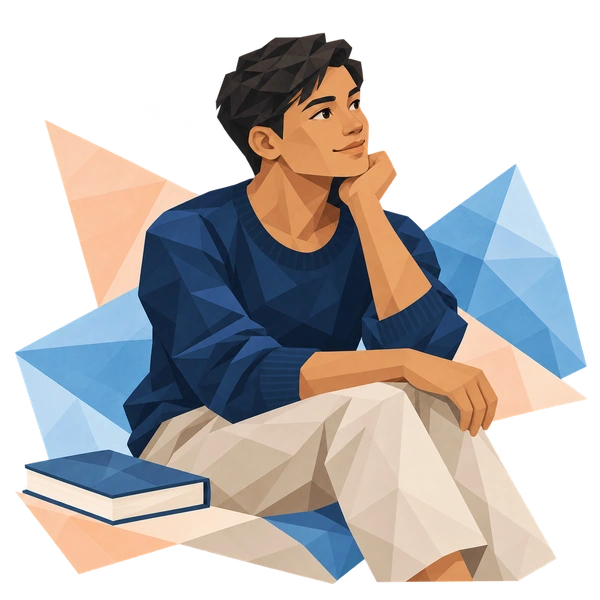
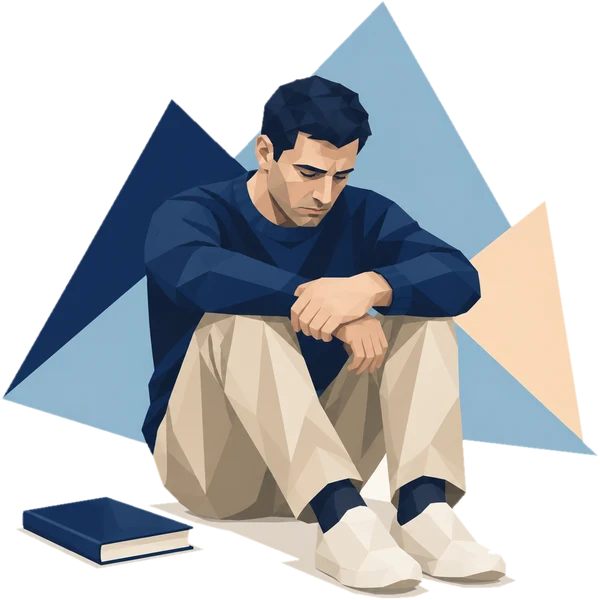
Career question cards, tidier traits chapter, new Angst pictures, X-of-100 for the standout trait (#77)
* Angst facet: new pensive pictures (woman and man) instead of smiling ones

Claude-Session: https://claude.ai/code/session_01QELGoaEXdk8jqMbp9xU79p

* Career questions as picture cards, traits chapter starts at the logo, X-of-100 figures for the standout trait

Claude-Session: https://claude.ai/code/session_01QELGoaEXdk8jqMbp9xU79p

* Nye fasettbilder for Sinne og Depresjon

Claude-Session: https://claude.ai/code/session_01QELGoaEXdk8jqMbp9xU79p

---------

diff --git a/app/ui.js b/app/ui.js
@@ -431,20 +431,22 @@ function fullReport(active='overview'){
   if(!all.some(([id])=>id===active))active='overview';
   const nextLink=id=>{const i=all.findIndex(([c])=>c===id),n=all[i+1];return n?`<div class="d-next-chapter"><a class="d-continue" href="#report/${n[0]}"><span>${tr('Continue exploring','Fortsett utforskningen')}<small>${tr('Next','Neste')}: ${n[1]}</small></span><span aria-hidden="true">→</span></a><p class="d-continue-tag">${tr('Small insights. Big possibilities.','Små innsikter. Store muligheter.')}</p></div>`:'';};
   const step=report.nextSteps[0];
-  const overview=`<section class="d-chapter" id="overview" data-chapter="overview">
+  // The toolbar (free profile, save, PDF) sits in the overview only, so the other chapters start with their content (Rune, 2026-10-17).
+  const toolbar=`<div class="d-report-toolbar"><a href="#results"><span aria-hidden="true">←</span> ${tr('Your free profile','Gratisprofilen din')}</a><span class="d-toolbar-actions">${!demo?`<button class="text-button" id="report-save">${tr('Save my answers','Lagre svarene mine')}</button>`:''}<button class="d-pdf" id="print"><svg viewBox="0 0 24 24" aria-hidden="true"><path d="M12 3v12M7 10l5 5 5-5M4 19h16"/></svg>${tr('Download PDF','Last ned PDF')}</button></span></div>`;
+  const overview=`<section class="d-chapter" id="overview" data-chapter="overview">${toolbar}
     <p class="eyebrow">${demo?tr('Illustrative profile','Illustrert profil'):tr('Your Big Five report','Din Big Five-rapport')}</p>
     <div class="d-results-hero d-report-hero"><h1>${tr('Personality profile','Personlighetsprofil')}</h1>${profileNameHtml(false)}</div>
     ${glanceHtml(glanceCtx())}${nuances()}${shareBox(true)}
     <div class="d-step-box"><span class="d-report-try-ico">${tryIcon}</span><div><h2>${tr('One small step to try','Ett lite steg å prøve')}</h2><p>${step?esc(step.content.life):tr('Choose one facet that interests you and compare two everyday situations this week.','Velg en fasett du er nysgjerrig på, og sammenlign to hverdagssituasjoner denne uken.')}</p><hr><p class="eyebrow">${tr('Reflect','Reflekter')}</p><p class="d-reflect">${esc(reflection(sorted(),language))}</p></div></div>
     <div class="notice d-disclaimer">${tr('This is a self-reflection tool, not a diagnosis, ability test, or recommendation for a particular job. Results reflect your self-reported answers today.','Dette er et verktøy for selvrefleksjon, ikke en diagnose, evnetest eller anbefaling av et bestemt yrke. Resultatene bygger på dine egne svar i dag.')}</div>
     ${normNote()}${nextLink('overview')}</section>`;
-  const traits=`<section class="d-chapter" id="traits" data-chapter="traits"><p class="eyebrow">02</p><h2 class="d-chapter-title d-title-info">${tr('Your five traits','Dine fem trekk')}<button type="button" class="d-info-btn" aria-expanded="false" aria-controls="traits-about" aria-label="${tr('About this chapter','Om dette kapittelet')}" title="${tr('About this chapter','Om dette kapittelet')}"><span class="d-info-i" aria-hidden="true">i</span></button></h2><div class="d-info-pop d-intro-pop" id="traits-about" hidden><p>${esc(content.introduction)}</p><p>${tr('Each broad trait brings together six narrower facets. Four items per facet give a useful starting point, with more uncertainty than the broad scales.','Hvert overordnet trekk samler seks mer avgrensede fasetter. Fire utsagn per fasett gir et nyttig utgangspunkt, med større usikkerhet enn de overordnede skalaene.')}</p></div>${pctInfo()}${traitLogoNav('report',c=>'trait-'+c)}${sorted().map(d=>traitPanel(d,`<section class="trait-chapter d-trait-chapter"><h4 class="d-details-title">${tr('The six facets','De seks fasettene')}</h4>${facetCarousel(d)}${strengthHtml(d)}${tryHtml(d)}<p>${esc(entry(d).meaning)}</p><div class="d-use"><strong>${tr('Getting the most from it','Slik får du mest ut av det')}</strong><p>${esc(entry(d).watch)}</p></div></section>`,content.domains?.[d.code]?.description||'',d.pattern.mixed?d.pattern.text:'')).join('')}${nextLink('traits')}</section>`;
+  const traits=`<section class="d-chapter" id="traits" data-chapter="traits"><p class="eyebrow">02</p><h2 class="d-chapter-title d-title-info">${tr('Your five traits','Dine fem trekk')}<button type="button" class="d-info-btn" aria-expanded="false" aria-controls="traits-about" aria-label="${tr('About this chapter','Om dette kapittelet')}" title="${tr('About this chapter','Om dette kapittelet')}"><span class="d-info-i" aria-hidden="true">i</span></button></h2><div class="d-info-pop d-intro-pop" id="traits-about" hidden><p>${esc(content.introduction)}</p><p>${tr('Each broad trait brings together six narrower facets. Four items per facet give a useful starting point, with more uncertainty than the broad scales.','Hvert overordnet trekk samler seks mer avgrensede fasetter. Fire utsagn per fasett gir et nyttig utgangspunkt, med større usikkerhet enn de overordnede skalaene.')}</p>${pctInfoParts()[1].replace(/^<div[^>]*>|<\/div>$/g,'')}</div>${traitLogoNav('report',c=>'trait-'+c)}${sorted().map(d=>traitPanel(d,`<section class="trait-chapter d-trait-chapter"><h4 class="d-details-title">${tr('The six facets','De seks fasettene')}</h4>${facetCarousel(d)}${strengthHtml(d)}${tryHtml(d)}<p>${esc(entry(d).meaning)}</p><div class="d-use"><strong>${tr('Getting the most from it','Slik får du mest ut av det')}</strong><p>${esc(entry(d).watch)}</p></div></section>`,content.domains?.[d.code]?.description||'',d.pattern.mixed?d.pattern.text:'')).join('')}${nextLink('traits')}</section>`;
   const context=[['work',tr('Work & career','Arbeidsliv og karriere'),'03','report-work'],['life',tr('Everyday life & relationships','Hverdagsliv og relasjoner'),'04','report-life']].map(([id,label,n,img])=>`<section class="d-chapter" id="${id}" data-chapter="${id}"><p class="eyebrow">${n}</p><div class="d-context-head d-context-band"><div>${demo?`<p class="d-demo-pill">${tr('Example profile','Eksempelprofil')}</p>`:''}<h2 class="d-chapter-title">${label}</h2><p class="d-sub">${id==='work'?tr('Use these ideas to explore how you work, rather than to choose a job title.','Bruk ideene til å utforske hvordan du jobber, fremfor å velge en yrkestittel.'):tr('Notice what fits your life, and adapt what you try to the people and situations around you.','Legg merke til hva som passer i livet ditt, og tilpass det du prøver til menneskene og situasjonene rundt deg.')}</p>${id==='work'?careerContextHtml(tailorCtx()):lifeContextHtml(tailorCtx())}</div><img src="assets/design/context/${id}-head.webp" alt="" aria-hidden="true"></div>${id==='work'?careerHtml(tailorCtx()):lifeHtml(tailorCtx())}${reportFigureHtml('is-chapter no-print')}<div class="d-ctx-grid" data-ctx="${id}">${sorted().map((d,i)=>contextHtml(d,id,false)).join('')}</div>${nextLink(id)}</section>`).join('');
   const steps=stepsChapter(nextLink('steps'));
   const reading=`<section class="d-chapter" id="reading" data-chapter="reading"><h2 class="d-chapter-title">${tr('How to read this report','Slik leser du rapporten')}</h2><p>${interpretation()}</p><ul class="source-list">${(content.limitations||[]).map(text=>`<li>${esc(text)}</li>`).join('')}</ul></section>`;
   main.innerHTML=`<div class="d-report">
     <aside class="d-contents"><nav aria-label="${tr('Report chapters','Rapportkapitler')}"><p class="eyebrow">${tr('Contents','Innhold')}</p>${chapters.map(([id,label],i)=>`<a href="#report/${id}" ${id===active?'aria-current="page"':''}><span>0${i+1}</span>${label}</a>`).join('')}<hr><a class="d-howto" href="#report/reading" ${active==='reading'?'aria-current="page"':''}><svg viewBox="0 0 24 24" aria-hidden="true"><path d="M2 5c3-1.5 7-1.5 10 1 3-2.5 7-2.5 10-1v14c-3-1.5-7-1.5-10 1-3-2.5-7-2.5-10-1zM12 6v14"/></svg>${tr('How to read your results','Slik leser du resultatene')}</a></nav></aside>
-    <article class="d-report-body report-body"><div class="d-report-toolbar"><a href="#results"><span aria-hidden="true">←</span> ${tr('Your free profile','Gratisprofilen din')}</a><span class="d-toolbar-actions">${!demo?`<button class="text-button" id="report-save">${tr('Save my answers','Lagre svarene mine')}</button>`:''}<button class="d-pdf" id="print"><svg viewBox="0 0 24 24" aria-hidden="true"><path d="M12 3v12M7 10l5 5 5-5M4 19h16"/></svg>${tr('Download PDF','Last ned PDF')}</button></span></div>${notice()}
+    <article class="d-report-body report-body">${notice()}
       ${overview}${traits}${context}${steps}${reading}</article></div>`;
   document.querySelectorAll('.d-chapter').forEach(s=>s.classList.toggle('is-active',s.dataset.chapter===active));
   document.querySelectorAll('[data-step]').forEach(box=>box.addEventListener('change',()=>{const t=new Set(triedSteps());box.checked?t.add(box.dataset.step):t.delete(box.dataset.step);try{sessionStorage.setItem(STEPS,JSON.stringify([...t]));}catch{}fullReport('steps');}));window.onbeforeprint=(()=>document.querySelectorAll('.d-ctx-more').forEach(x=>x.open=true));document.querySelectorAll('.d-ctx-toggle').forEach(btn=>btn.addEventListener('click',()=>{const grid=btn.closest('.d-ctx-grid'),open=btn.getAttribute('aria-expanded')!=='true';grid.querySelectorAll('.d-ctx-toggle').forEach(b=>{const on=open&&b===btn;b.setAttribute('aria-expanded',on);b.closest('.d-ctx-card').classList.toggle('is-open',on);document.getElementById(b.getAttribute('aria-controls')).hidden=!on;});if(open){const panel=document.getElementById(btn.getAttribute('aria-controls')),r=panel.getBoundingClientRect();if(r.bottom>innerHeight)panel.scrollIntoView({behavior:matchMedia('(prefers-reduced-motion: reduce)').matches?'auto':'smooth',block:'nearest'});}}));document.querySelectorAll('.d-fcard-toggle').forEach(btn=>btn.addEventListener('click',()=>{const open=btn.getAttribute('aria-expanded')!=='true';btn.setAttribute('aria-expanded',String(open));document.getElementById(btn.getAttribute('aria-controls')).hidden=!open;const card=btn.closest('.d-fcard');card.classList.toggle('is-open',open);if(open&&!matchMedia('(prefers-reduced-motion: reduce)').matches){card.classList.remove('is-filling');card.getBoundingClientRect();card.classList.add('is-filling');card.querySelectorAll('[data-count]').forEach(n=>countUp(n,700));}}));document.querySelector('.d-nuance-toggle')?.addEventListener('click',e=>{const btn=e.currentTarget,open=btn.getAttribute('aria-expanded')!=='true';btn.setAttribute('aria-expanded',String(open));btn.closest('.d-nuance-fold').classList.toggle('is-open',open);document.getElementById('nuance-body').hidden=!open;});initGlance(main,code=>peopleFor(glanceCtx(),code));initLife(main,tailorCtx());initCareer(main,tailorCtx());initFacetCarousels(main);initLogoNav(main,{panelId:c=>'trait-'+c,onOpen:c=>{if(c)document.getElementById('trait-'+c)?.querySelector('[data-fcarousel]')?.resetFacets?.();}});initShare();document.querySelector('#print').onclick=()=>window.print();document.querySelector('#report-save')?.addEventListener('click',downloadAnswers);}

diff --git a/app/tailored-chapter.js b/app/tailored-chapter.js
@@ -16,8 +16,8 @@ const chips = (item, ctx) => item.facets.length ? `<p class="d-career-chips">${i
 
 /**
  * cfg: {name, key, copy: {questions, visibleQuestions?, isComplete, optionLabel, answerTopic, build, request, OTHER_MAX},
- * text(ctx) → {title, lead, progress, otherLabel(qid), otherPlaceholder(qid), contextEyebrow, aria},
- * contextParts(answers, language) → [labels], icon, main: [[id, eyebrow(ctx), fallbackId?]], side: [[id, eyebrow(ctx)]],
+ * text(ctx) → {title, progress, otherLabel(qid), otherPlaceholder(qid), contextEyebrow, aria},
+ * contextParts(answers, language) → [labels], icon, jumpIn?, questionArt(qid)?, optionArt(qid, value)?, main: [[id, eyebrow(ctx), fallbackId?]], side: [[id, eyebrow(ctx)]],
  * deep: [ids], hideEmpty: [ids], titles(ctx, answers) → {id: title}, weekOrder: [ids]}
  */
 export function createTailoredChapter(cfg) {
@@ -32,14 +32,22 @@ export function createTailoredChapter(cfg) {
   const clear = () => { try { sessionStorage.removeItem(key); } catch {} };
   const current = s => { const qs = visible(s.answers); return {qs, q: qs[Math.min(s.step, qs.length - 1)]}; };
 
+  // One question as Rune's card layout (mockup 2026-10-17): progress on top, a large question with the
+  // chapter picture beside it, then one card per answer with its picture and an arrow (a tick box when
+  // several may be chosen). Answers without their own picture show a logo piece.
+  const PIECES = ['sky', 'apricot', 'steel', 'ivory', 'navy'];
   function stepHtml(s, ctx) {
     const {tr, esc, language} = ctx, t = cfg.text(ctx), {qs, q} = current(s), step = qs.indexOf(q), chosen = asList(s.answers[q.id]);
-    const first = step === 0 && !Object.keys(s.answers).length, other = chosen.includes('other');
-    return `${first ? `<p class="d-career-lead">${t.lead}</p>` : ''}
-    <div class="d-career-progress"><span>${t.progress}</span><span class="d-career-bar" aria-hidden="true"><i style="width:${Math.round(100 * step / qs.length)}%"></i></span><span>${tr(`${step + 1} of ${qs.length}`, `${step + 1} av ${qs.length}`)}</span></div>
-    <fieldset class="d-career-q"><legend>${esc(q.q[language === 'no' ? 1 : 0])}</legend>${q.multi ? `<p class="d-career-hint">${tr('Choose up to two.', 'Velg opptil to.')}</p>` : ''}
-    <div class="d-career-options">${q.options.map(([value, en, no]) => `<button type="button" class="d-career-opt" data-value="${value}" aria-pressed="${chosen.includes(value)}">${q.multi ? '<b aria-hidden="true"></b>' : ''}${esc(tr(en, no))}</button>`).join('')}</div>
-    ${other ? `<label class="d-career-other"><span>${t.otherLabel(q.id)}</span><input type="text" maxlength="${copy.OTHER_MAX}" autocomplete="off" ${A}-other value="${esc(s.answers.other?.[q.id] || '')}" placeholder="${t.otherPlaceholder(q.id)}"></label>` : ''}</fieldset>
+    const other = chosen.includes('other'), hero = cfg.questionArt?.(q.id);
+    const art = (value, i) => cfg.optionArt?.(q.id, value) || `assets/design/logo-piece-${PIECES[i % PIECES.length]}.webp`;
+    return `<div class="d-q2-progress"><span class="d-q2-label">${t.progress}</span><span class="d-q2-row"><span class="d-career-bar" aria-hidden="true"><i style="width:${Math.round(100 * (step + 1) / qs.length)}%"></i></span><span>${tr(`${step + 1} of ${qs.length}`, `${step + 1} av ${qs.length}`)}</span></span></div>
+    <div class="d-q2-head${hero ? ' has-art' : ''}"><h3 class="d-q2-title" id="${name}-q">${esc(q.q[language === 'no' ? 1 : 0])}</h3>${hero ? `<img class="d-q2-hero" src="${hero}" alt="" aria-hidden="true">` : ''}</div>
+    ${q.multi ? `<p class="d-career-hint">${tr('Choose up to two.', 'Velg opptil to.')}</p>` : ''}
+    <div class="d-q2-options" role="group" aria-labelledby="${name}-q">${q.options.map(([value, en, no], i) => {
+      const own = !!cfg.optionArt?.(q.id, value);
+      return `<button type="button" class="d-career-opt d-q2-opt" data-value="${value}" aria-pressed="${chosen.includes(value)}"><span class="d-q2-icon${own ? '' : ' is-piece'}"><img src="${art(value, i)}" alt="" aria-hidden="true"></span><span class="d-q2-text">${esc(tr(en, no))}</span><span class="d-q2-go${q.multi ? ' is-check' : ''}" aria-hidden="true">${q.multi ? '' : '<svg viewBox="0 0 24 24"><path d="M9.5 6l6 6-6 6"/></svg>'}</span></button>`;
+    }).join('')}</div>
+    ${other ? `<label class="d-career-other"><span>${t.otherLabel(q.id)}</span><input type="text" maxlength="${copy.OTHER_MAX}" autocomplete="off" ${A}-other value="${esc(s.answers.other?.[q.id] || '')}" placeholder="${t.otherPlaceholder(q.id)}"></label>` : ''}
     <div class="d-career-nav">${step > 0 ? `<button type="button" class="text-button" ${A}="back">${tr('Back', 'Tilbake')}</button>` : '<span></span>'}${q.multi || other ? `<button type="button" class="button" ${A}="next" ${chosen.length ? '' : 'disabled'}>${tr('Next', 'Videre')}</button>` : ''}</div>`;
   }
 
@@ -135,7 +143,8 @@ export function createTailoredChapter(cfg) {
     const {tr} = ctx, s = state(), t = cfg.text(ctx);
     const done = copy.isComplete(s.answers) && !s.editing;
     if (done) return `<section class="d-career is-result" ${A}-root aria-label="${t.title}"><p class="d-tailor-badge">${t.badge}</p>${resultHtml(s, ctx, build(ctx, s.answers))}</section>`;
-    return `<section class="d-tailor d-career" ${A}-root aria-labelledby="${name}-title"><div class="d-tailor-head"><p class="d-tailor-badge">${t.badge}</p><h3 id="${name}-title">${t.title}</h3></div>
+    // While the questions are open, the chapter shows them first (cfg.jumpIn hides the chapter header).
+    return `<section class="d-tailor d-career d-q2" ${A}-root aria-label="${t.title}"${cfg.jumpIn ? ' data-jump' : ''}>
     ${stepHtml(s, ctx)}
     <p class="d-tailor-note">${tr('Each point links your answers with facets that sit clearly high or low. They are ideas to test, not established facts about you. Your answers stay in this browser tab.', 'Hvert punkt kobler svarene dine med fasetter som ligger tydelig høyt eller lavt. Det er ideer å teste, ikke fastslåtte sannheter om deg. Svarene blir bare lagret i denne nettleserfanen.')}</p></section>`;
   }

diff --git a/app/design.css b/app/design.css
@@ -1740,3 +1740,34 @@ footer select,header.menu-open .locale-bar select,.d-account-page select{border:
   .d-fslides .d-fcard-plus::before,.d-fslides .d-fcard-plus::after{width:16px}
   .d-fslides .d-fcard-more{padding:18px 22px 10px}
 }
+
+/* Tailored questions as Rune's card layout (mockup 2026-10-17). */
+.d-tailor.d-q2{padding:0;border:0!important;border-radius:0!important;background:none;box-shadow:none}
+.d-chapter:has(.d-q2[data-jump])>.eyebrow,.d-chapter:has(.d-q2[data-jump])>.d-context-band{display:none}
+.d-q2-progress{display:grid;gap:6px;margin:4px 0 0;font-size:14px;color:#4f6d8c}
+.d-q2-label{color:#33496b}
+.d-q2-row{display:flex;align-items:center;gap:18px}
+.d-q2-row .d-career-bar{height:9px;background:#e6ebf1}
+.d-q2-row .d-career-bar i{background:#13284f}
+.d-q2-head{position:relative;display:flex;align-items:center;min-height:120px;margin:10px 0 14px}
+.d-q2-head.has-art{min-height:clamp(220px,46vw,300px)}
+.d-q2-title{position:relative;z-index:1;margin:0;max-width:58%;font:400 clamp(32px,8.6vw,46px)/1.12 Georgia,'Times New Roman',serif;letter-spacing:-.03em;color:var(--title)}
+.d-q2-head:not(.has-art) .d-q2-title{max-width:none}
+.d-q2-hero{position:absolute;right:-6px;top:0;height:100%;width:auto;max-width:52%;object-fit:contain;object-position:right center}
+.d-q2-options{display:grid;gap:12px}
+.d-q2-opt.d-career-opt{display:grid;grid-template-columns:76px minmax(0,1fr) 40px;gap:14px;align-items:center;min-height:76px;padding:8px 14px 8px 10px;border:1px solid var(--box-border);border-radius:var(--box-radius);background:#eef3fa;box-shadow:var(--box-shadow);color:var(--title);font-size:17px;line-height:1.3;text-align:left;cursor:pointer;transition:background .15s,border-color .15s,transform .15s}
+.d-q2-opt.d-career-opt:nth-child(even){background:#f6f4f0}
+.d-q2-opt.d-career-opt:hover{background:#fdeee4;transform:translateY(-1px)}
+.d-q2-opt.d-career-opt[aria-pressed="true"]{background:#fde3d3;border-color:#f0a07a!important}
+.d-q2-icon{display:grid;place-items:center;width:76px;height:60px}
+.d-q2-icon img{max-width:100%;max-height:100%;object-fit:contain}
+.d-q2-icon.is-piece img{width:34px;height:34px}
+.d-q2-go{display:grid;place-items:center;width:38px;height:38px;border-radius:50%;background:#dfe8f3;color:#13284f}
+.d-q2-go svg{width:20px;height:20px;fill:none;stroke:currentColor;stroke-width:2;stroke-linecap:round;stroke-linejoin:round}
+.d-q2-go.is-check{width:26px;height:26px;border:1.5px solid #13284f;border-radius:7px;background:#fff}
+.d-q2-opt[aria-pressed="true"] .d-q2-go.is-check{background:#13284f}
+.d-q2-opt[aria-pressed="true"] .d-q2-go.is-check::after{content:'';width:7px;height:12px;margin-top:-3px;border:solid #fff;border-width:0 2px 2px 0;transform:rotate(45deg)}
+.d-q2 .d-career-hint{margin:-4px 0 12px}
+.d-q2 .d-tailor-note{margin-top:18px;font-size:13px;color:#6b7f95}
+@media(min-width:761px){.d-q2-options{grid-template-columns:1fr 1fr}.d-q2-hero{right:0}}
+@media(prefers-reduced-motion:reduce){.d-q2-opt.d-career-opt{transition:none}.d-q2-opt.d-career-opt:hover{transform:none}}

diff --git a/app/career.js b/app/career.js
@@ -5,6 +5,7 @@ import {questions, isComplete, optionLabel, answerTopic, buildCareer, careerRequ
 import {createTailoredChapter} from './tailored-chapter.js';
 
 export const CAREER_KEY = 'fem-career-v1';
+const ROLE_ART = new Set(['knowledge', 'care', 'service', 'practical', 'creative', 'own', 'student']);
 const asList = v => Array.isArray(v) ? v : v ? [v] : [];
 
 const briefcase = '<svg viewBox="0 0 24 24" width="30" height="30" fill="none" stroke="currentColor" stroke-width="1.6" stroke-linejoin="round" aria-hidden="true"><rect x="3" y="7" width="18" height="13" rx="2"/><path d="M9 7V5a1 1 0 0 1 1-1h4a1 1 0 0 1 1 1v2M3 12h18M10.5 12v2h3v-2"/></svg>';
@@ -14,10 +15,14 @@ const chapter = createTailoredChapter({
   key: CAREER_KEY,
   copy: {questions, isComplete, optionLabel, answerTopic, build: buildCareer, request: careerRequest, OTHER_MAX},
   icon: briefcase,
+  // Rune's question mockup (2026-10-17): the chapter opens straight on the questions, with the picture
+  // and the answer pictures cropped from it. Other answers show a logo piece.
+  jumpIn: true,
+  questionArt: () => 'assets/design/career/question-hero.webp',
+  optionArt: (qid, value) => qid === 'role' && ROLE_ART.has(value) ? `assets/design/career/${value}.webp` : '',
   text: ({tr}) => ({
     title: tr('Your work, your profile', 'Din jobb, din profil'),
     badge: tr('Tailored · prototype', 'Tilpasset deg · prototype'),
-    lead: tr('Answer eight short questions about your work. It takes two or three minutes. We link your answers with your facets and write a chapter about you and your job.', 'Svar på åtte korte spørsmål om jobben din. Det tar to–tre minutter. Vi kobler svarene med fasettene dine og skriver et kapittel om deg og jobben din.'),
     progress: tr('About your work', 'Om jobben din'),
     otherLabel: qid => qid === 'role' ? tr('Your job (optional)', 'Yrket ditt (valgfritt)') : tr('Specify (optional)', 'Utdyp (valgfritt)'),
     otherPlaceholder: qid => qid === 'role' ? tr('For example chiropractor', 'For eksempel kiropraktor') : tr('A few words, no names', 'Noen få ord, ingen navn'),

diff --git a/app/facet-compare.js b/app/facet-compare.js
@@ -37,7 +37,13 @@ export const poles = {
   C3: ['take rules and promises more seriously', 'tar regler og løfter mer alvorlig', 'treat rules and promises more loosely', 'forholder deg løsere til regler og løfter'],
   C4: ['push harder towards demanding goals', 'presser deg hardere mot krevende mål', 'are more content with doing what is needed', 'er oftere fornøyd med å gjøre det som trengs'],
   C5: ['get started on tasks more easily', 'kommer lettere i gang med oppgaver', 'find it harder to get started on tasks', 'har vanskeligere for å komme i gang med oppgaver'],
-  C6: ['think things through more before acting', 'tenker deg mer om før du handler', 'decide more quickly', 'bestemmer deg raskere']
+  C6: ['think things through more before acting', 'tenker deg mer om før du handler', 'decide more quickly', 'bestemmer deg raskere'],
+  // The five broad traits, for «The trait that stands out most» on the overview.
+  O: ['are more open to new ideas and experiences', 'er mer åpen for nye ideer og opplevelser', 'prefer the familiar and practical more', 'foretrekker oftere det kjente og praktiske'],
+  C: ['are more organised and thorough', 'er mer planmessig og grundig', 'are more spontaneous and flexible', 'er mer spontan og fleksibel'],
+  E: ['seek out people and activity more', 'søker mer mot folk og aktivitet', 'prefer calm and smaller groups more', 'foretrekker oftere ro og små grupper'],
+  A: ['put more weight on cooperation and consideration', 'legger mer vekt på samarbeid og hensyn', 'stand your ground more readily', 'står lettere på ditt'],
+  N: ['react more strongly to stress and setbacks', 'reagerer sterkere på stress og motgang', 'stay calmer under stress and setbacks', 'holder deg roligere under stress og motgang']
 };
 
 /** One sentence comparing the facet with the reference group, or '' without a percentile. */

diff --git a/app/glance.js b/app/glance.js
@@ -48,7 +48,7 @@ function topPanels(c, strongest, facet, facetTrait, combo, named) {
   const plain = s => s.replace(/\s*\(.*\)$/, '');
   const cards = [
     {key: 'trait', cls: `d-tpanel-${strongest.code}`, img: `assets/design/trait-${strongest.code}.webp`, eyebrow: c.tr('The trait that stands out most', 'Trekket som skiller seg mest ut'), title: c.shy(c.esc(plain(c.name(strongest)))), meta: c.countText(strongest),
-      body: `<h3>${c.esc(c.name(strongest))}</h3><p class="d-glance-score">${c.countText(strongest)}</p><p>${c.esc(c.traitLine(strongest))}</p>`},
+      body: `<h3>${c.esc(c.name(strongest))}</h3><p class="d-glance-score">${c.countText(strongest)}</p>${compareHtml({code: strongest.code, name: plain(c.name(strongest)), percentile: strongest.percentile}, c.language, traitColors[strongest.code], c.esc)}<p>${c.esc(c.traitLine(strongest))}</p>`},
     {key: 'facet', cls: 'd-gpanel-facet', img: `assets/design/facets/${facet.code}.webp`, eyebrow: c.tr('Your most distinctive facet', 'Fasetten som skiller seg mest ut'), title: c.shy(c.esc(facet.name)), meta: c.countText(facet),
       body: `<h3>${c.esc(facet.name)}</h3><p class="d-glance-score">${c.countText(facet)} · ${c.esc(c.name(facetTrait))}</p>${compareHtml(facet, c.language, traitColors[facetTrait.code], c.esc)}<p>${c.esc(facet.interpretation)}</p>`},
     {key: 'combo', cls: 'd-gpanel-combo', img: c.figureSrc(named.image), eyebrow: c.tr('Your combination', 'Kombinasjonen din'), title: c.shy(c.esc(combo.title)), meta: combo.traits.map(d => c.piece(d.code)).join(''),

diff --git a/tests/facet-compare.test.js b/tests/facet-compare.test.js
@@ -18,7 +18,13 @@ test('the figure lights the same number as the card', () => {
   assert.equal(compareCount({code: 'C2', percentile: 85}), 85);
 });
 
-test('all 30 facets have both poles in both languages', () => {
-  assert.equal(Object.keys(poles).length, 30);
+test('all 30 facets and the five traits have both poles in both languages', () => {
+  assert.equal(Object.keys(poles).filter(k => k.length === 2).length, 30);
+  assert.deepEqual(Object.keys(poles).filter(k => k.length === 1).sort(), ['A', 'C', 'E', 'N', 'O']);
   for (const p of Object.values(poles)) assert.ok(p.length === 4 && p.every(x => x.length > 5));
+});
+
+test('the trait that stands out most gets an X-of-100 line too', () => {
+  assert.match(compareLine({code: 'C', name: 'Planmessighet', percentile: 98}, 'no'), /er du mer planmessig og grundig enn omtrent 98 av 100 mennesker/);
+  assert.match(compareLine({code: 'N', name: 'Følelsesmessig reaktivitet', percentile: 20}, 'no'), /følelsesmessig reaktivitet, skårer du høyere enn omtrent 20 av 100/);
 });

diff --git a/app/life.js b/app/life.js
@@ -19,7 +19,6 @@ const chapter = createTailoredChapter({
   text: ({tr}) => ({
     title: tr('Your everyday life, your relationships', 'Din hverdag, dine relasjoner'),
     badge: tr('Tailored', 'Tilpasset deg'),
-    lead: tr('Answer eight short questions about your everyday life and the people close to you. It takes two or three minutes. We link your answers with your facets and write a chapter about you, your home and your relationships.', 'Svar på åtte korte spørsmål om hverdagen din og dem som står deg nær. Det tar to–tre minutter. Vi kobler svarene med fasettene dine og skriver et kapittel om deg, hjemmet ditt og relasjonene dine.'),
     progress: tr('About your everyday life', 'Om hverdagen din'),
     otherLabel: () => tr('Specify (optional)', 'Utdyp (valgfritt)'),
     otherPlaceholder: () => tr('A few words, no names', 'Noen få ord, ingen navn'),

diff --git a/docs/decisions.md b/docs/decisions.md
@@ -436,3 +436,11 @@ Registrert fra samtalen 11. oktober 2026. «Valgt» nedenfor viser brukerens utt
 - Prøve: større bilde på kortet Angst (N1) før vi eventuelt gjør det på alle.
 - Etter Runes mockup (kveld 2026-10-17): på mobil er fasettkortene store, med stort fasettnavn og et bilde som fyller kortet. +-knappen er en fasettert diamant (beskåret fra mockupen, app/assets/design/facet-gem.webp), og den åpner et panel under bildet med «Om fasetten», fasettforklaringen og «X av 100 mennesker». (i)-knappen i fasettkortet er dermed fjernet. Trekkbiten i overskriften er større, og en rund «‹»-knapp øverst går tilbake til de fem trekkene.
 - Rune: bildet til Angst viser en smilende kvinne og passer ikke. Det må byttes.
+- Nye Angst-bilder (N1, kvinne og mann) laget med Higgsfield 2026-10-17 (0,5 kreditter): ettertenksomt, litt bekymret uttrykk i stedet for smil. Bakgrunnen er fjernet slik at de er utklipp som de andre fasettbildene.
+- Nye bilder for Sinne (N2) og Depresjon (N3), kvinne og mann, laget med Higgsfield 2026-10-17 (1 kreditt): irritert ved feilmelding for Sinne og nedstemt på gulvet for Depresjon. Rune mente de forrige ikke viste følelsen.
+
+## Spørsmålskort i Arbeidsliv, ryddigere trekkside og 100-figurer på trekk-boksen (2026-10-17, kveld)
+
+- Rune (mockup): spørsmålene i de tilpassede kapitlene vises som store kort. Øverst står fremdriften («Om jobben din», «1 av 8»), så et stort spørsmål med bilde ved siden av, og deretter ett kort per svar med bilde og pil (avkrysningsboks der man kan velge to). Arbeidsliv åpner rett på spørsmålene, og kapittelhodet skjules til de er besvart. Bildet og de sju svarbildene til arbeidsspørsmålet er beskåret fra mockupen. Svar uten eget bilde viser en logobit. «Ikke i jobb nå» og «Noe annet» er med som før.
+- Verktøylinjen (Gratisprofilen din, Lagre svarene mine, Last ned PDF) står bare i Oversikt, slik at «Dine fem trekk» starter med logoen. «Hva betyr persentilen?» er flyttet inn i kapittelets (i), så logoen og trekknavnene får plass på én mobilskjerm.
+- «Trekket som skiller seg mest ut» i oversikten har fått samme «X av 100 mennesker»-setning og 100-figurer som fasett-boksen. De fem trekkene har fått egne poler i app/facet-compare.js.
